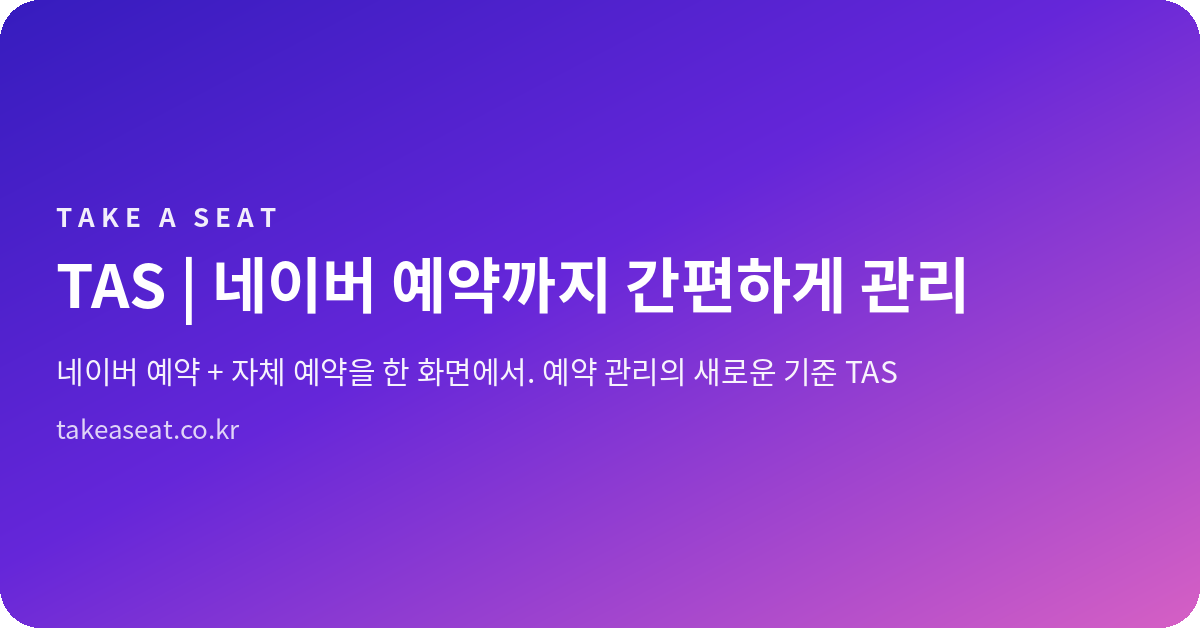
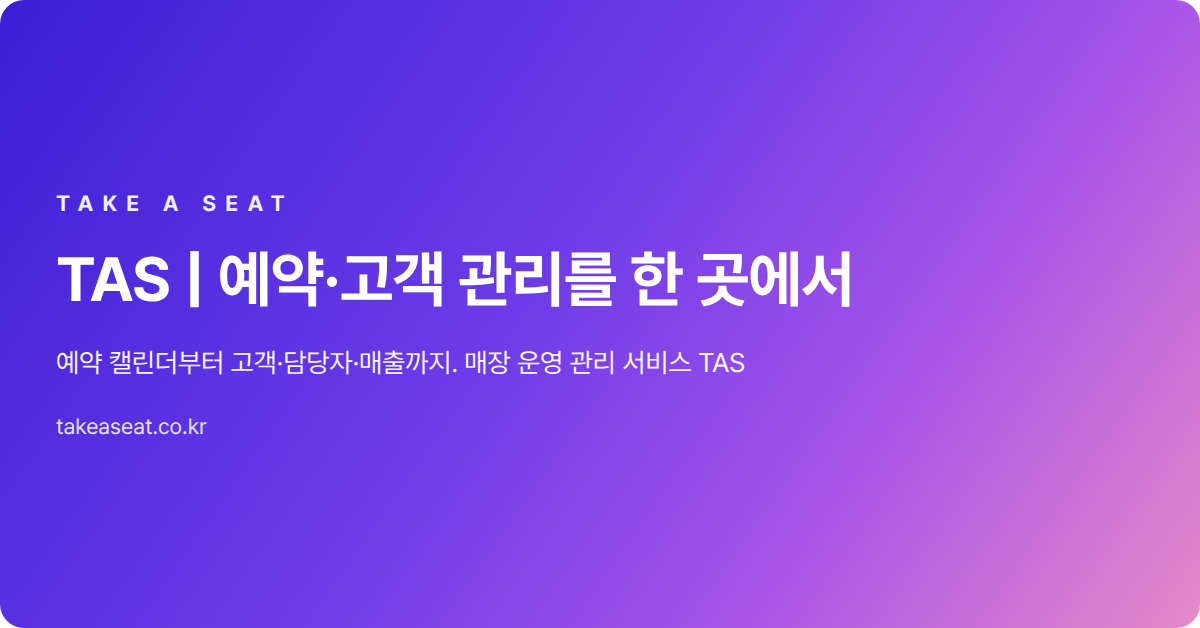
fix: 미구축인 "네이버·당근 등 통합 예약 관리" 문구 제거
외부 플랫폼 통합 예약 관리는 아직 구축 전인데 서비스 제목·설명·키워드·
공유 카드에 전면으로 광고돼 있었다. 실제 제공 범위(예약 캘린더·고객·
담당자·매출)만 남긴다.

- lib/seo.ts: 제목·description·OG/Twitter·키워드
- favicon/manifest.json: PWA 이름
- about/index 페이지 문구
- public/img-share.png: "네이버 예약까지 간편하게 관리" 카드를 같은 톤으로 재생성

정책 문서의 카카오·네이버 언급은 SNS 로그인·제3자 서비스 고지라 사실이므로 유지.

Claude-Session: https://claude.ai/code/session_01SsqqCGAksP5hDtjiiHNZay

diff --git a/client/lib/seo.ts b/client/lib/seo.ts
@@ -1,10 +1,12 @@
 export const SITE_URL = 'https://takeaseat.co.kr';
 export const SITE_NAME = 'TAS';
-export const SITE_TITLE = 'TAS | 통합 예약 관리';
-export const SITE_DESCRIPTION = '네이버·당근 등 여러 플랫폼의 예약을 한 곳에서. 예약·고객 관리까지 통합으로 간편하게, TAS';
-export const SITE_OG_DESCRIPTION = '네이버·당근 등 여러 플랫폼의 예약을 한 화면에서 통합 관리. 예약 관리의 새로운 기준 TAS';
-export const SITE_TWITTER_DESCRIPTION = '네이버·당근 등 여러 플랫폼의 예약을 한 곳에서. 예약·고객 관리까지 통합으로 간편하게, TAS';
+// 외부 플랫폼(네이버·당근 등) 통합 예약 관리는 아직 구축 전이라 문구에서 뺀다.
+// 실제로 제공하는 범위(예약 캘린더·고객·담당자·매출 관리)만 적는다.
+export const SITE_TITLE = 'TAS | 예약·고객 관리';
+export const SITE_DESCRIPTION = '예약 캘린더부터 고객·담당자·매출까지, 매장 운영에 필요한 관리를 한 곳에서. TAS';
+export const SITE_OG_DESCRIPTION = '예약·고객·담당자·매출을 한 화면에서 관리. 매장 예약 관리 서비스 TAS';
+export const SITE_TWITTER_DESCRIPTION = '예약 캘린더부터 고객·담당자·매출까지, 매장 운영에 필요한 관리를 한 곳에서. TAS';
 export const SITE_OG_IMAGE = `${SITE_URL}/img-share.png`;
 export const SITE_OG_IMAGE_WIDTH = '1200';
 export const SITE_OG_IMAGE_HEIGHT = '628';
-export const SITE_KEYWORDS = '통합 예약 관리, 예약 통합, 다양한 플랫폼 예약, 네이버 예약, 당근 예약, 예약 관리, 고객관리, 예약 시스템, 예약 CRM, 예약 캘린더, TAS';
+export const SITE_KEYWORDS = '예약 관리, 매장 예약 관리, 고객관리, 예약 시스템, 예약 CRM, 예약 캘린더, 온라인 예약, 매출 관리, TAS';

diff --git a/client/pages/about.tsx b/client/pages/about.tsx
@@ -18,7 +18,7 @@ export default function AboutPage() {
         <StyledWrapper>
             <SeoHead
                 title="서비스 소개"
-                description="예약·고객 관리 서비스 TAS. 네이버·당근 등 여러 플랫폼의 예약을 한 곳에서 통합 관리하세요."
+                description="예약·고객 관리 서비스 TAS. 예약 캘린더부터 고객·담당자·매출까지 매장 운영을 한 곳에서 관리하세요."
                 path="/about"
             />
             <StyledMain>

diff --git a/client/pages/index.tsx b/client/pages/index.tsx
@@ -143,7 +143,7 @@ const Home: NextPage<HomeProps> = (props) => {
     };
 
     return (<>
-            <SeoHead title="통합 예약·고객 관리 시스템" />
+            <SeoHead title="예약·고객 관리 시스템" />
             <StyledSection $isVisible={aside.isVisible}>
                 {curr && <Calendar/>}
             </StyledSection>
